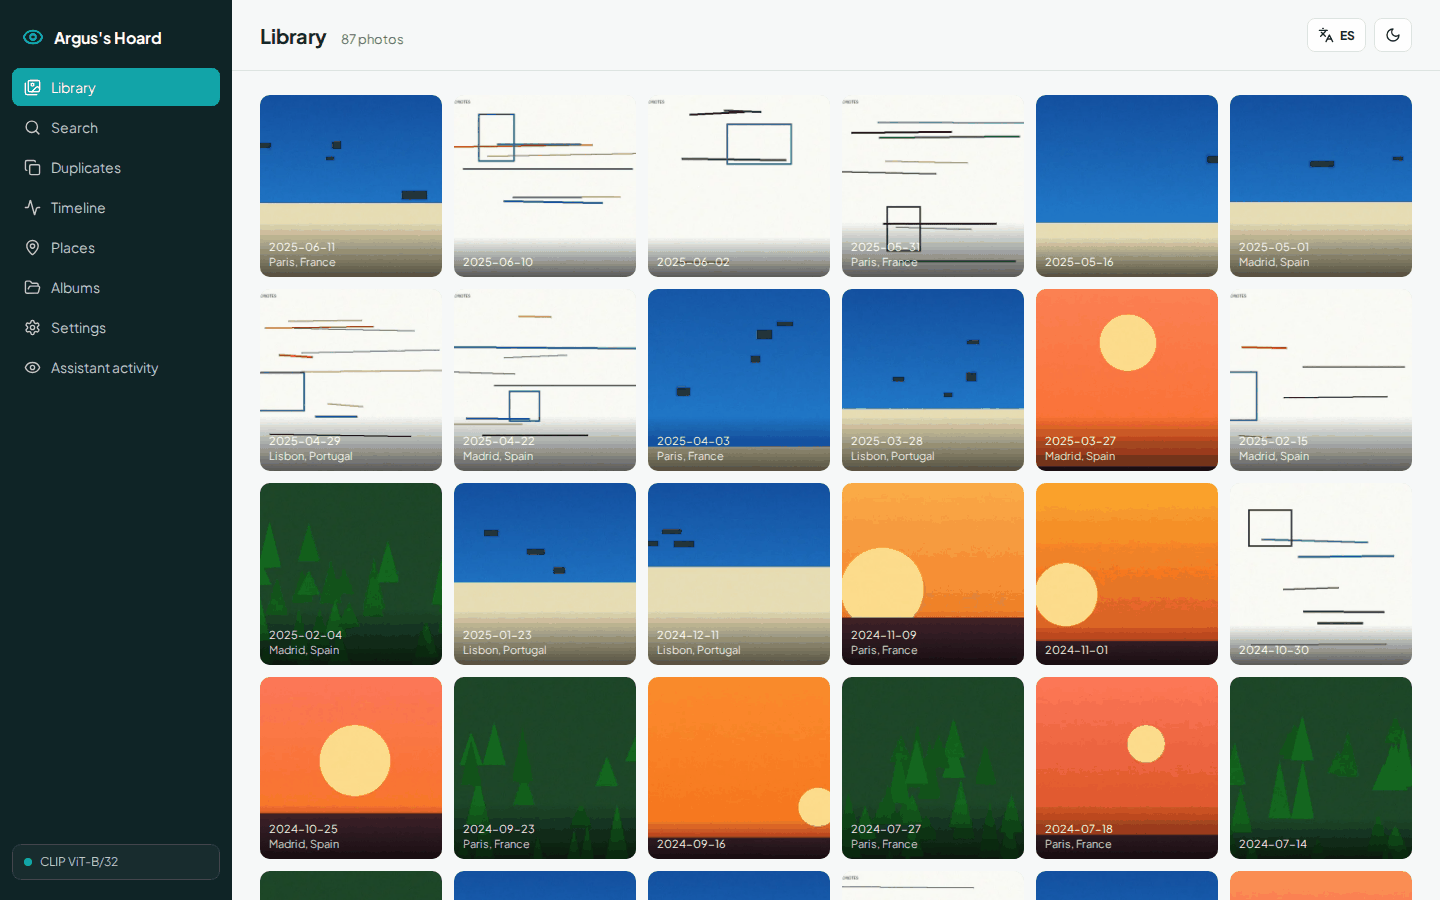
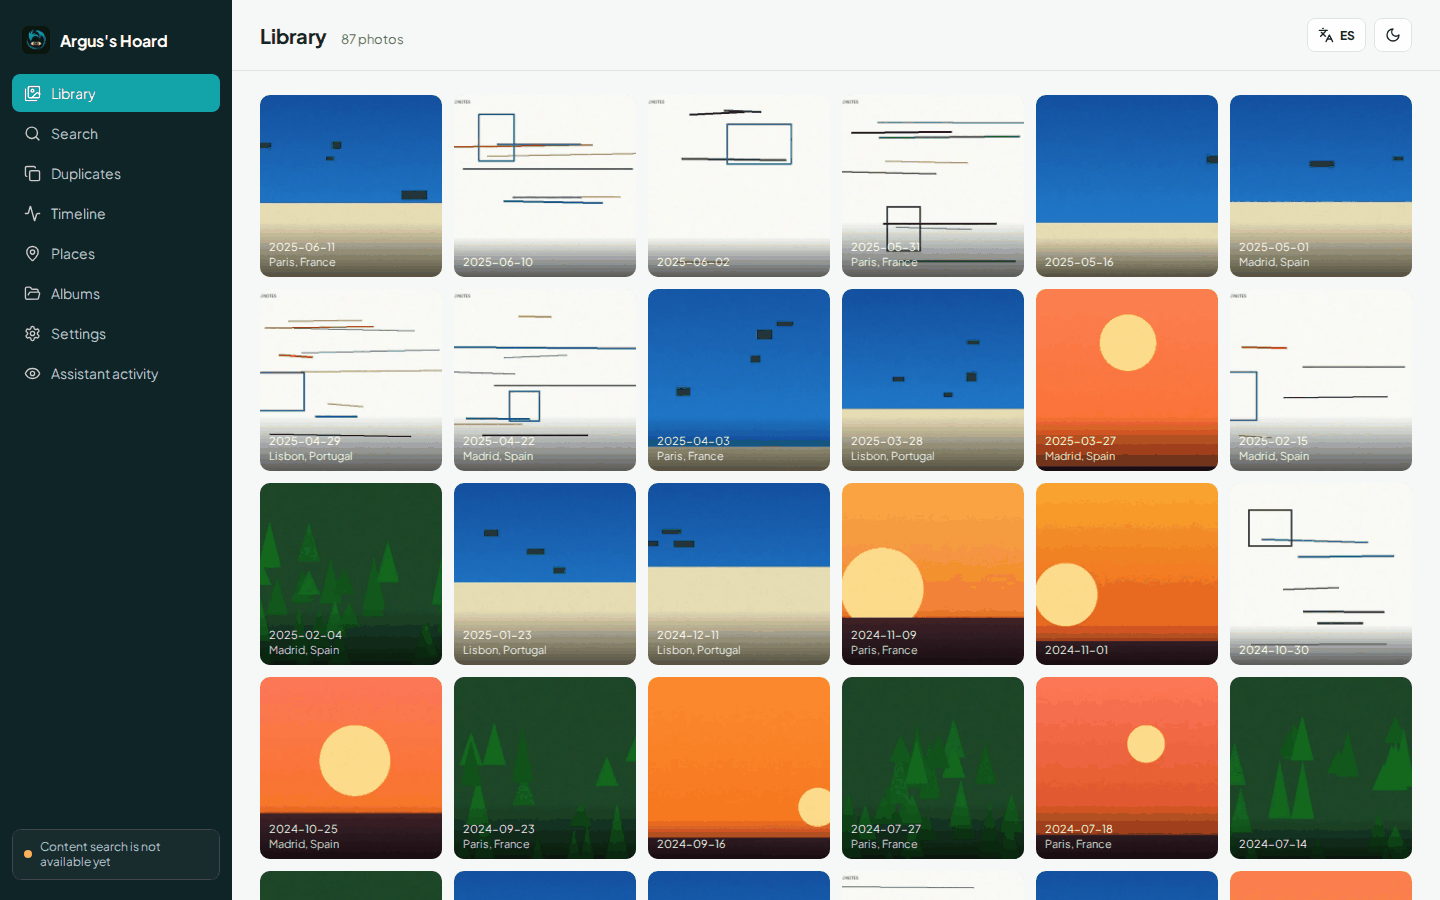
docs: describe the shared backend and retake screenshots
READMEs (EN/ES): app icon at the top, a new "Shared models" row in the
implemented-features table, a "Shared models" section (what it uses,
resolution order in one line, works without any model), the measured
test count (106) and what the new tests cover. docs/ARCHITECTURE.md
gets a "Shared model backend (Hoard Link)" section and the new modules
(backend.py, lang.py, hoard_link/) in the module list; docs/MCP.md's
photos_describe entry no longer claims captions only ever go to Ollama.
AGENTS.md notes the loopback probing exception and to never edit the
vendored hoard_link/ folder.

Screenshots retaken with scripts/screenshots.py against --demo (neither
Faustus nor a local Ollama running, so Settings honestly shows both
capabilities "Not available"): the five that changed with the new app
icon in the sidebar, plus a new settings.png for the Shared models
panel and places.png (the script already covered that screen; it was
just never committed).

Claude-Session: https://claude.ai/code/session_019KVoFTp2agjwLaonbFXam5

diff --git a/docs/ARCHITECTURE.md b/docs/ARCHITECTURE.md
@@ -30,8 +30,20 @@
   ONNX Runtime CLIP ViT-B/32, 512-d, no PyTorch); `VectorStore`.
 - `geocode.py` -- offline reverse geocoding: bundled 10-city fixture, or
   GeoNames `cities1000` once the user downloads it.
-- `captions.py` -- optional Ollama vision client (downscales to 1024 px,
-  bypasses system proxies for a loopback Ollama).
+- `captions.py` -- `LinkCaptioner` (what `Library._captioner()` returns:
+  captions through Hoard Link's `vision` capability) plus the original
+  `OllamaCaptioner` (a direct connection to one Ollama server, kept for
+  standalone use and exercised by its own tests); both downscale to
+  1024 px, and the shared helper bypasses system proxies for loopback.
+- `backend.py` -- `Backend`: builds the vendored Hoard Link `Link` from
+  `data/backend.json` plus environment overrides, and maps the legacy
+  `ollama_base_url`/`ollama_model` settings into the `vision` capability's
+  explicit override once the owner has actually saved one. See "Shared
+  model backend" below.
+- `lang.py` -- a dependency-free stopword heuristic (`detect_non_english`)
+  that decides whether the UI should offer to translate a search query.
+- `hoard_link/` -- vendored copy of the shared Hoard Link library (never
+  edited; see `VENDORED.txt`).
 - `contact_sheet.py` -- numbered JPEG grid (at most 20 cells, 200 KB) and
   the shared "encode JPEG under N bytes" helper.
 - `jobs.py` -- `JobManager` / `JobHandle`: a daemon thread per job,
@@ -132,16 +144,62 @@ Windows for "Open in Explorer".
 - `/api/agent/<tool>` -- the nine MCP tools, audited in `agent_calls`.
 - UI routes (not audited): `/api/photos`, `/api/photos/{id}`,
   `/thumbnail`, `/preview` (large JPEG of the original, EXIF-rotated,
-  also for HEIC/TIFF), `/open`, `/caption`, `/api/search`,
-  `/api/similar`, `/api/duplicates`, `/api/timeline`, `/api/places`,
-  `/api/roots`, `/api/scan`, `/api/jobs`, `/api/albums`,
-  `/api/settings`, `/api/model`, `/api/geocoder/download`,
-  `/api/captions/batch`, `/api/agent-calls`.
+  also for HEIC/TIFF), `/open`, `/caption`, `/api/search` (auto-translates
+  a non-English query -- see "Shared model backend" below), `/api/similar`,
+  `/api/duplicates`, `/api/timeline`, `/api/places`, `/api/roots`,
+  `/api/scan`, `/api/jobs`, `/api/albums`, `/api/settings`, `/api/model`,
+  `/api/geocoder/download`, `/api/captions/batch`, `/api/agent-calls`,
+  `/api/backend` (GET: Hoard Link's resolution for every capability plus
+  the local CLIP status), `/api/backend/config` (PUT: Faustus URL/token
+  and per-capability overrides, persisted to `data/backend.json`; the
+  token is never read back), `/api/backend/recheck` (POST: rebuilds the
+  `Link`, which also clears its 30 s probe cache).
 - Guard: requests whose `Host` is not `127.0.0.1:<port>` or
   `localhost:<port>` get 403; non-GET requests with a foreign `Origin` or
   `Sec-Fetch-Site: cross-site` get 403. No CORS headers.
 - Static files: only files whose resolved path is inside `frontend/dist`;
   every other non-API path gets `index.html`.
+
+## Shared model backend (Hoard Link)
+
+Argus uses two of Hoard Link's eight capabilities: `vision` (captions) and
+`llm` (UI-only query translation). `Library.backend` is one
+`argus_hoard.backend.Backend`, built once in `Library.__init__` and
+rebuilt (`backend.reload()`) whenever `data/backend.json` changes or the
+legacy Ollama settings are saved. `Backend._build_link()` loads
+`LinkConfig` from `data/backend.json` + environment, then -- only when
+that file sets no explicit `vision` override *and* a row for
+`ollama_base_url` actually exists in the `settings` table (a fresh install
+has neither) -- maps the legacy value into `vision`'s explicit
+`CapabilityConfig`. This is a one-way migration path, not a permanent
+coupling: setting a `vision` override in `data/backend.json` (via
+`PUT /api/backend/config`) always wins over the legacy field.
+
+`Library._captioner()` -- the seam `tests/test_engine_edge_cases.py` and
+`tests/test_caption_batch.py` monkeypatch -- returns a `LinkCaptioner`
+wrapping `self.backend.link`. It calls
+`link.sync.chat(images=[jpeg], capability="vision")`, so a caption is
+served by whatever resolves: the legacy/explicit Ollama address, a running
+Faustus, or a loopback probe -- never a private, Ollama-only connection.
+`start_caption_batch` calls `link.sync.wait_idle("vision", max_wait_s=30)`
+before every photo (up to ~10 minutes of polling, then it captions anyway)
+so a background batch yields to whatever the owner is doing with the
+shared model instead of racing it.
+
+`Library.search_translated` (used only by the UI's `/api/search`, never
+by `/api/agent/photos_search` -- the MCP tool's docstring tells the agent
+to translate the query itself) runs `lang.detect_non_english` on the
+query and, only when it looks confidently non-English, asks the `llm`
+capability for a short English CLIP phrase via `link.sync.chat(...,
+capability="llm")`. `Unavailable`/`BackendError` fall back silently to
+searching with the original text and surface a `translate_error` field;
+nothing ever blocks a search on the shared model being absent.
+
+`GET /api/backend` returns `Backend.status()` (Hoard Link's `Resolution`
+for all eight capabilities, `token_set`, `used_capabilities`) plus
+`image_search` (the local CLIP embedder's name and whether it is the real
+model or the colour-only fallback) -- CLIP is never shared: it is not a
+chat/embeddings-text model any of Hoard Link's capabilities cover.
 
 ## Key decisions
 
@@ -156,3 +214,13 @@ Windows for "Open in Explorer".
 - **HTTP between the MCP adapter and the app.** The adapter needs nothing
   from the app's environment, and the same logic is tested through
   FastAPI's `TestClient`.
+- **`link.sync.*`, never `await link.*`, from the FastAPI routes.** Every
+  route in `api.py` is a plain `def`, matching the rest of the app (SQLite
+  calls, `Library` methods); Hoard Link's synchronous facade runs its own
+  event-loop thread instead of asking the whole app to become async for
+  two capabilities.
+- **A saved-row check, not just "is `vision` explicit", to migrate the
+  legacy Ollama fields.** `get_setting(..., default=None)` distinguishes
+  "the owner configured this" from "nothing was ever saved", so a fresh
+  install benefits from Faustus/loopback resolution instead of being
+  pinned to the built-in Ollama address forever.

diff --git a/README.es.md b/README.es.md
@@ -1,3 +1,5 @@
+<img src="app-icon.png" width="96" alt="">
+
 # El Tesoro de Argos
 
 ### ¿Sigues teniendo la foto del perro en la playa del verano pasado?
@@ -39,6 +41,26 @@ mueve ni borra un archivo original; es un invariante con su test.
 | Álbumes | Los crea el usuario o el agente, desde el visor o con una herramienta; el agente solo puede añadir | Sin álbumes anidados |
 | Interfaz | Interfaz React de escritorio: cuadrícula de miniaturas con carga continua, visor con zoom y desplazamiento sobre una vista previa grande (1600 px) del original, panel EXIF, fotos parecidas, inglés y español, tema claro y oscuro | Las secciones de la barra lateral no tienen URL propia |
 | Integración con el asistente | `faustus-plugin.json`, 9 herramientas MCP por stdio y cada llamada del agente registrada en «Actividad del asistente» | El agente puede añadir una carpeta, pero no quitarla |
+| Modelos compartidos | Las descripciones y la traducción de búsquedas usan el modelo que ya tenga en marcha Faustus, o un Ollama/llama.cpp/servidor local compatible con OpenAI (Ajustes -> Modelos compartidos muestra qué se resolvió y por qué, con un ajuste manual) | La búsqueda de imágenes (CLIP) siempre es local: no es un modelo de chat que cubra el backend compartido |
+
+## Modelos compartidos
+
+Argos nunca carga su propia copia de un modelo de lenguaje o de visión.
+Dos funciones pasan por Hoard Link, un pequeño resolutor incluido que
+comparte con las demás aplicaciones locales del propietario: las
+**descripciones** de foto (capacidad `vision`) y la **traducción
+automática** de la búsqueda (capacidad `llm`). El orden de resolución es
+siempre el mismo: primero un ajuste manual guardado en Ajustes, luego un
+Faustus en marcha, luego un servidor local Ollama / llama.cpp / compatible con OpenAI
+que ya esté sirviendo un modelo adecuado -- así Argos nunca le pide a la
+GPU que cargue una segunda copia. Si nada se resuelve, ambas funciones lo
+dicen claramente y se quedan desactivadas; el resto de Argos (indexado,
+búsqueda, duplicados, cronología, lugares, álbumes) funciona sin conexión
+y sin ningún modelo. Más detalle en
+[docs/ARCHITECTURE.md](docs/ARCHITECTURE.md#shared-model-backend-hoard-link).
+
+![Pantalla de Ajustes con el panel de Modelos compartidos](docs/media/settings.png)
+*Aplicación real: en esta demostración no hay ni Faustus ni un Ollama/llama.cpp local en marcha, así que ambas capacidades informan honestamente «No disponible» junto con el motivo.*
 
 ## Conectarlo a Faustus
 
@@ -136,7 +158,7 @@ hilos e índice de duplicados: [docs/ARCHITECTURE.md](docs/ARCHITECTURE.md).
 ## Tests
 
 ```powershell
-.venv\Scripts\python -m pytest -q          # 80 tests, unos 20 s, sin red
+.venv\Scripts\python -m pytest -q          # 106 tests, unos 15-20 s, sin red
 .venv\Scripts\python -m pytest -q -m model # 1 test opcional con el modelo CLIP real (lo descarga si falta)
 cd frontend; npm run build                 # TypeScript estricto
 ```
@@ -159,7 +181,16 @@ protección HTTP, los intentos de salir de la carpeta de la interfaz y el
 formato de los errores; el manifiesto; y el adaptador MCP lanzado por
 stdio contra la aplicación en marcha (lista de herramientas, anotaciones,
 palabras clave, imagen de la hoja de contactos, `photos_show`, álbumes,
-errores y el mensaje cuando la aplicación está parada). El test del
+errores y el mensaje cuando la aplicación está parada). Además: el
+resolutor del backend compartido (los ajustes antiguos de Ollama solo se
+convierten en el ajuste manual de la capacidad `vision` cuando el usuario
+los ha guardado de verdad; los ajustes manuales se guardan sin devolver
+nunca el token de Faustus); las descripciones a través de
+`Link.chat(capability="vision")` contra un servidor simulado, resuelto o
+no; la pausa de buen ciudadano `wait_idle("vision")` en un lote de
+descripciones; el detector de idioma no inglés; y la separación entre
+`/api/search` y `/api/agent/photos_search` (solo la ruta de la interfaz
+traduce). El test del
 modelo indexa las escenas de demostración con CLIP real y comprueba que
 cuatro descripciones en inglés encuentran la escena correcta. El flujo de
 CI está preparado para pasar la batería en Ubuntu y Windows con Python

diff --git a/README.md b/README.md
@@ -1,3 +1,5 @@
+<img src="app-icon.png" width="96" alt="">
+
 # Argus's Hoard
 
 ### Do you still have the photo of the dog on the beach from last summer?
@@ -39,6 +41,24 @@ tested.
 | Albums | Created by the owner or the agent from the lightbox or by tool call; the agent can only add | No nested albums |
 | Interface | React desktop-style UI: thumbnail grid with infinite scroll, lightbox with zoom and pan on a large (1600 px) preview of the original, EXIF panel, similar strip, English and Spanish, light and dark | Sidebar sections are not deep-linkable URLs |
 | Assistant integration | `faustus-plugin.json`, 9 MCP tools over stdio, every agent call audited in "Assistant activity" | The agent can add a folder but not remove one |
+| Shared models | Captions and query translation share whatever model server Faustus or a local Ollama/llama.cpp/OpenAI-compatible server already has running (Settings -> Shared models shows what resolved and why, with a manual override) | Image search itself (CLIP) is always local, never shared: it is not a chat model the shared backend covers |
+
+## Shared models
+
+Argus never loads its own copy of a language or vision model. Two features
+go through Hoard Link, a small vendored resolver shared with the owner's
+other local apps: photo **captions** (the `vision` capability) and
+automatic **query translation** for the search box (the `llm` capability).
+Resolution order is always the same: an explicit override set in Settings,
+then a running Faustus, then a loopback Ollama / llama.cpp / OpenAI-compatible
+server -- whichever is already serving a fitting model, so Argus never
+asks a GPU to load a second copy. Both features simply say so and stay off
+when nothing resolves; the rest of Argus (indexing, search, duplicates,
+timeline, places, albums) works fully offline with no model at all. See
+[docs/ARCHITECTURE.md](docs/ARCHITECTURE.md#shared-model-backend-hoard-link).
+
+![Settings screen showing the Shared models panel](docs/media/settings.png)
+*Actual application: neither Faustus nor a local Ollama/llama.cpp server is running in this demo, so both capabilities honestly report "Not available" with the reason why.*
 
 ## Connect it to Faustus
 
@@ -134,7 +154,7 @@ index are described in [docs/ARCHITECTURE.md](docs/ARCHITECTURE.md).
 ## Tests
 
 ```powershell
-.venv\Scripts\python -m pytest -q          # 80 tests, about 20 s, no network
+.venv\Scripts\python -m pytest -q          # 106 tests, about 15-20 s, no network
 .venv\Scripts\python -m pytest -q -m model # 1 opt-in test with the real CLIP model (downloads it if missing)
 cd frontend; npm run build                 # TypeScript strict
 ```
@@ -152,7 +172,14 @@ Ollama client against a mock server, including hybrid caption search;
 filter validation; the HTTP guard, path traversal attempts and error
 shapes; the manifest; and the MCP adapter spawned over stdio against a
 live app (tool list, annotations, keywords, contact-sheet image,
-`photos_show`, albums, errors, and the message when the app is down). The
+`photos_show`, albums, errors, and the message when the app is down).
+Also: the shared-backend resolver (legacy Ollama settings become the
+`vision` capability's explicit override only once actually saved; manual
+overrides persist without ever returning the Faustus token); captioning
+through `Link.chat(capability="vision")` against a mocked server, resolved
+or not; the good-citizen `wait_idle("vision")` pause in a caption batch;
+the non-English query detector; and the `/api/search` vs
+`/api/agent/photos_search` split (only the UI path ever translates). The
 model test indexes the demo scenes with real CLIP and checks that four
 English descriptions find the right scene. The CI workflow is set up to
 run the suite on Ubuntu and Windows with Python 3.11 and 3.13, build the

diff --git a/AGENTS.md b/AGENTS.md
@@ -11,9 +11,16 @@ Reglas para cualquier agente de código que trabaje en este repositorio.
   `data-demo/` con `--demo`). Nunca rutas fuera del repo salvo que el
   usuario lo pida explícitamente (`--data-dir`).
 - La API solo escucha en `127.0.0.1`. No añadas CORS. No añadas
-  telemetría ni llamadas de red que el usuario no haya pedido
+  telemetría ni llamadas de red externa que el usuario no haya pedido
   explícitamente (la única excepción hoy es la descarga opcional de
-  GeoNames y de un modelo CLIP, y ambas se anuncian en la UI).
+  GeoNames y de un modelo CLIP, y ambas se anuncian en la UI). El sondeo
+  de `hoard_link/` a Faustus y a servidores en loopback (Ollama,
+  llama.cpp, u otro compatible con OpenAI) para las capacidades `vision` y `llm` es la
+  excepción esperada: nunca sale de `127.0.0.1` y es justo lo que pide
+  el backend de modelos compartido.
+- **Nunca edites `argus_hoard/hoard_link/`** (es una copia vendorizada,
+  ver `VENDORED.txt`). Compón sobre ella desde `backend.py`
+  (`Library.backend`); para actualizarla, sustituye la carpeta entera.
 - No uses `window.confirm` ni `alert` en el frontend: bloquean la
   pestaña si algo la controla por automatización. Usa una confirmación
   en dos pasos en línea (ver `SettingsPage.tsx`).

diff --git a/docs/MCP.md b/docs/MCP.md
@@ -114,8 +114,11 @@ model, lens, f_number, exposure_time, iso, focal_length, orientation,
 gps_lat, gps_lon, city, region, country, caption}`; fields without data
 are omitted. `date_source` is `exif` or `file_mtime` (no EXIF date). With
 `caption=true` and no caption yet, the photo (downscaled to 1024 px) is
-sent to the configured local Ollama vision model; if that fails the
-result carries `caption_error` instead of failing the call.
+sent to whatever the shared model backend resolves for the `vision`
+capability (Faustus, a loopback Ollama/llama.cpp/OpenAI-compatible
+server, or the app's own configured Ollama override -- see the README's
+"Shared models" section); if nothing resolves the result carries
+`caption_error` instead of failing the call.
 
 ## photos_duplicates
 
